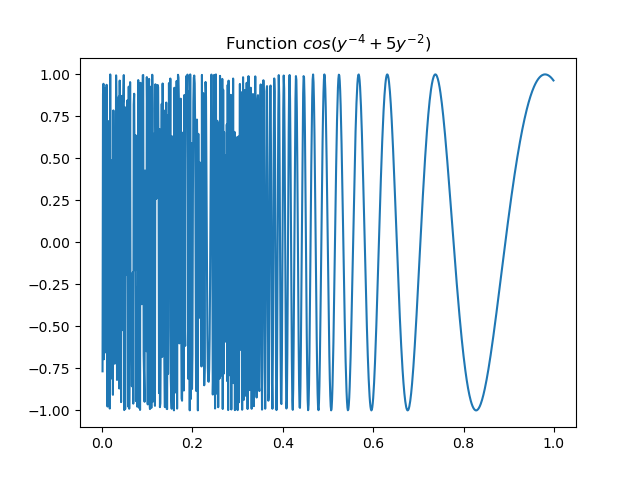
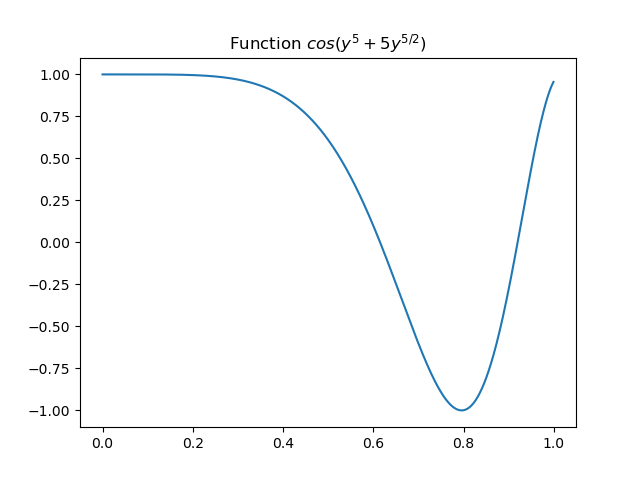
Error in part 5 corrected

diff --git a/integ_double_part5.py b/integ_double_part5.py
@@ -19,7 +19,7 @@ def func(x):          # function to be integrated
     return cos(5*x + x*x)/x**(3/2)
 
 def funcy(y):  # function to be integrated
-    return cos(y**(-4)+5*y**(-2))
+    return cos(y**(5)+5*y**(5/2))
 
 
 def trapezoid(A,B,N):   #integrate from A to B using N points
@@ -74,30 +74,30 @@ def rombergy(A,B,N):
 
 #num * 2 for num in lst
 
-xpoints = np.arange(0.001,1,0.001)
-fxpoints = [func(x) for x in np.arange(0.001,1,0.001)]
+xpoints = np.arange(0.0,1.0,0.001)
+fxpoints = [func(x) for x in np.arange(0.0,1.0,0.001)]
 
 plot(xpoints, fxpoints)
 title('Function '+r'$ cos(5x + x^2)/x^{3/2}$')
 savefig('part5_funcx.png')
 show()
 
-ypoints = np.arange(0.001,1,0.001)
-fypoints = [funcy(x) for x in np.arange(0.001,1,0.001)]
+ypoints = np.arange(0.0,1.0,0.001)
+fypoints = [funcy(x) for x in np.arange(0.0,1.0,0.001)]
 plot(ypoints, fypoints)
-title('Function '+r'$ cos(y^{-4}+5y^{-2})$')
+title('Function '+r'$ cos(y^{5}+5y^{5/2})$')
 savefig('part5_funcy.png')
 show()
 
-i_simpsonx = simpson(1.0e-15, 1.0, 1000001)
+i_simpsonx = simpson(0, 1.0, 2001)
 #i_trapezoidx = trapezoid(1.0e-15, 1.0, 10000001)
 
-i_rombergx = romberg(1.0e-15, 1.0, 1000001)
+i_rombergx = romberg(0, 1.0, 101)
 
-i_simpsony = simpsony(1.0e-15, 1.0, 1000001)
+i_simpsony = 5/2 * simpsony(0, 1.0, 2001)
 #i_trapezoidy = trapezoidy(1.0e-15, 1.0, 10000001)
 
-i_rombergy = rombergy(1.0e-15, 1.0, 1000001)
+i_rombergy = 5/2 * rombergy(0, 1.0, 101)
 
 print('Simpson method for x:', i_simpsonx)
 print('Simpson method for y:', i_simpsony)
@@ -105,7 +105,7 @@ print('Simpson method for y:', i_simpsony)
 print('Romberg aproximation for Simpson method for x:', i_rombergx)
 print('Romberg aproximation for Simpson method for y:', i_rombergy)
 
-i_mathematica = 0.0329952
+i_mathematica = 5/2 * 0.359898 # 0.899745
 
 print(' Mathematica gives:', i_mathematica)
 print(' Estimated error of Simpson:', abs(i_simpsony-i_mathematica))
